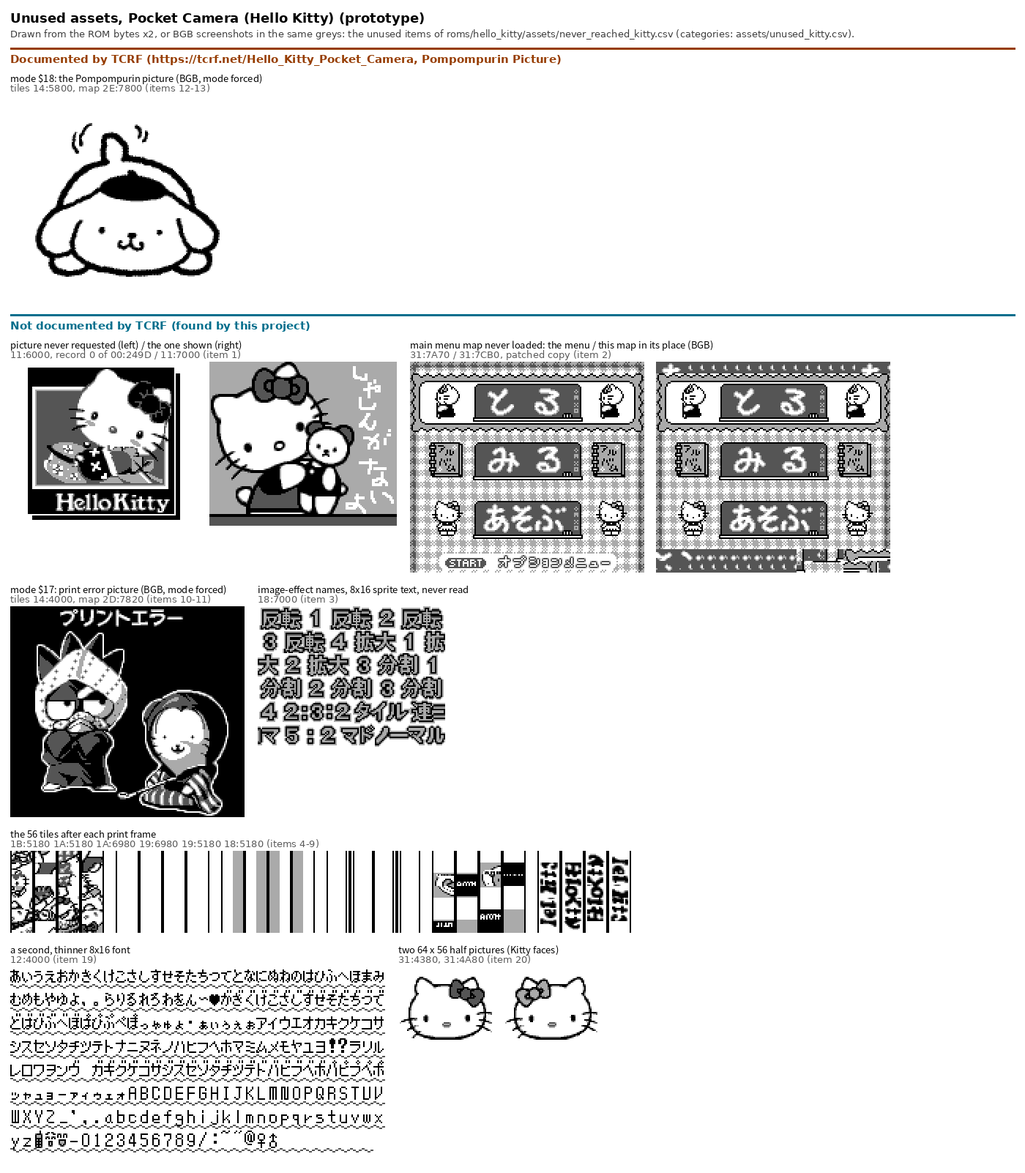
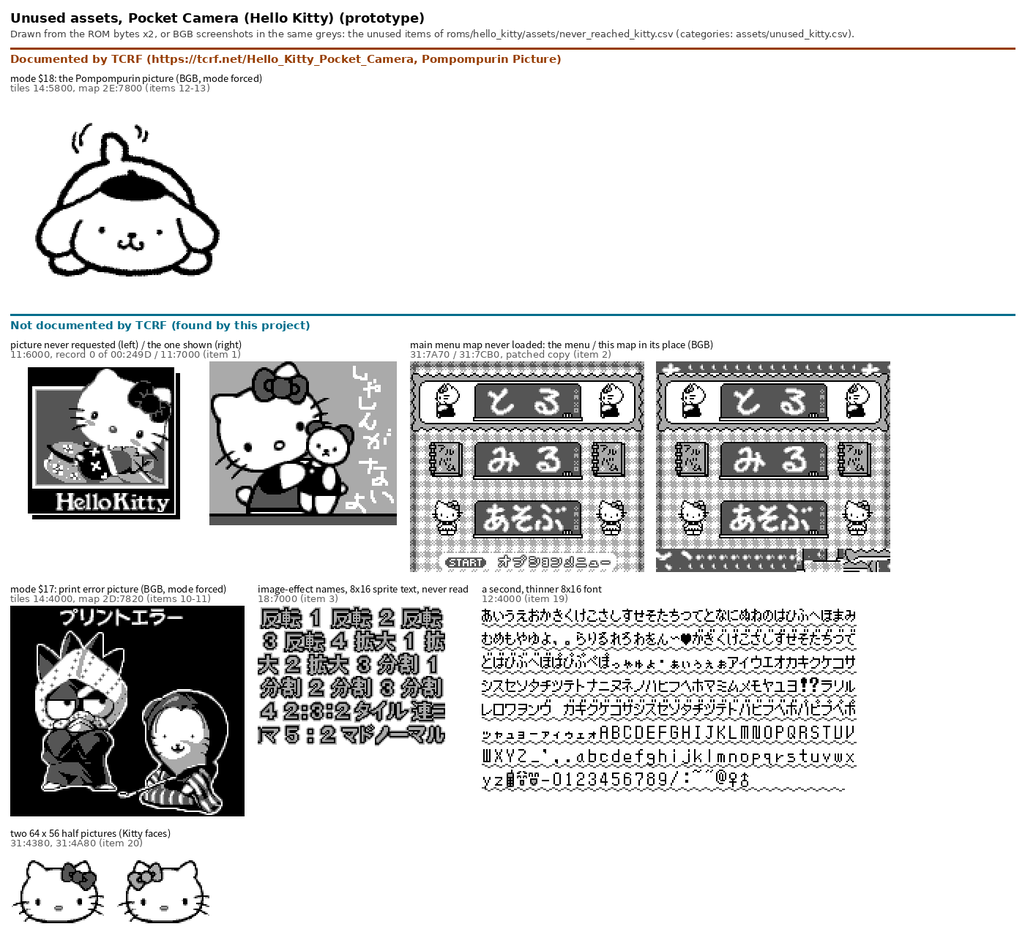
Hello Kitty: the last 56 tiles of each print-frame block are the side borders of the six wild frames (Up / Down on the print frame; BGB: the six blocks filled with $FF print black side borders on every wild frame), named Frame_BB_AAAA_WildFrameSides, no longer unused; the wild frame chooser and the 
Claude-Session: https://claude.ai/code/session_011bkRcGXfJ3fZfBVgH9Dsk3

diff --git a/tools/reach_map.py b/tools/reach_map.py
@@ -16,7 +16,8 @@ has no evidence for stays empty:
               run only read, never executed, is red too)
   YELLOW      asset data that no organic run read and that the ROM's never-reached table calls unused (assets/never_reached_<tag>.csv:
               ported builds, the rows found at the same address or moved; Hello Kitty, the verdicts `unused...`)
-  ORANGE      data never read but explained by a type row of disasm/sym_types_<tag>.csv or an inline table of the trace (class T)
+  ORANGE      data never read but explained by a type row of disasm/sym_types_<tag>.csv or an inline table of the trace (class T),
+              or (Hello Kitty) by a `used...` verdict of assets/never_reached_kitty.csv (read in BGB or on a Super Game Boy, not in the runs)
   GREY-BLUE   data never read and explained by nothing yet
   muted red / beige  never-read runs of 16+ x $00 (padding) / $FF (fill)
 Prints one line `<tag>_reach: blue N, red N, grey-blue N, orange N, padding N, fill N, light blue N, green N, purple N, yellow N bytes`
@@ -64,7 +65,7 @@ if os.path.exists(nr):
         b = int(r['bank'], 16); o1, o2 = off(b, int(r['start'], 16)), off(b, int(r['end'], 16)) + 1
         if r['class'] == 'JP_EQUIV': green[o1:o2] = True
         elif r['class'] in ('JP_DEAD', 'UNUSED', 'UNREACHABLE'): dead[o1:o2] = True
-unused = np.zeros(N, bool)
+unused = np.zeros(N, bool); used_x = np.zeros(N, bool)
 nrc = os.path.join(D, 'assets', 'never_reached_%s.csv' % T)
 if os.path.exists(nrc):
     for r in csv.DictReader(open(nrc, encoding='utf-8')):
@@ -73,12 +74,14 @@ if os.path.exists(nrc):
                 b, ad = r['%s_addr' % T].split(':'); o = off(int(b, 16), int(ad, 16)); unused[o:o + int(r['bytes'])] = True
         elif r.get('verdict', '').startswith('unused'):
             b = int(r['bank'], 16); unused[off(b, int(r['start'], 16)):off(b, int(r['end'], 16))] = True
+        elif r.get('verdict', '').startswith('used'):    # Hello Kitty: never read in the runs, shown used elsewhere (BGB, SGB): explained
+            b = int(r['bank'], 16); used_x[off(b, int(r['start'], 16)):off(b, int(r['end'], 16))] = True
 pad, fill = RD.runs16(rom)
 cat = np.zeros(N, np.uint8)                                  # 0 blue
 nh = ~hit
-cat[nh & ~code & typed] = 4                                   # orange
-cat[nh & ~code & ~typed] = 9                                  # grey-blue
-cat[nh & ~code & ~typed & pad] = 3; cat[nh & ~code & ~typed & fill] = 8
+cat[nh & ~code & (typed | used_x)] = 4                        # orange
+cat[nh & ~code & ~typed & ~used_x] = 9                                  # grey-blue
+cat[nh & ~code & ~typed & ~used_x & pad] = 3; cat[nh & ~code & ~typed & ~used_x & fill] = 8
 cat[nh & unused] = 7                                          # yellow
 nx = ~ex & code                                               # proven code counts as reached only when executed (a read of code bytes is not a run)
 cat[nx] = 2                                                   # red

diff --git a/tools/kitty_unused_sheet.py b/tools/kitty_unused_sheet.py
@@ -8,7 +8,7 @@ that table are not drawn).
 Documented by TCRF (https://tcrf.net/Hello_Kitty_Pocket_Camera, Pompompurin Picture): mode $18, its tiles 14:5800 drawn by the map
 2E:7800, a BGB screenshot with the mode byte forced (screens/extra_18_01.png). Not documented by TCRF: item 1 (11:6000, beside the
 picture 11:7000 that is shown), item 2 (the map 31:7CB0: BGB screenshots of the main menu and of the patched copy where this map
-replaces 31:7A70, screens/bgb_mainmenu_*.png), item 3 (18:7000, 8x16 sprite text), items 4-9 (the 56 tiles after each print frame),
+replaces 31:7A70, screens/bgb_mainmenu_*.png), item 3 (18:7000, 8x16 sprite text),
 items 10-11 (mode $17, BGB with the mode byte forced, screens/extra_17_01.png), item 19 (12:4000, the thin 8x16 font), item 20
 (31:4380, 31:4A80: two 64 x 56 half pictures). Drawn from the ROM bytes x2 unless the caption says BGB.
 """
@@ -21,12 +21,10 @@ ap = argparse.ArgumentParser(); ap.add_argument('rom'); ap.add_argument('--check
 R = open(a.rom, 'rb').read()
 def g(b, ad, n): o = b * 0x4000 + ad - 0x4000; return R[o:o + n]
 tcrf = [('mode $18: the Pompompurin picture (BGB, mode forced)', 'tiles 14:5800, map 2E:7800 (items 12-13)', shot(os.path.join(SC, 'extra_18_01.png')))]
-frames = side(*[tiles(g(b, ad, 0x380), w=8) for b, ad in ((0x1B, 0x5180), (0x1A, 0x5180), (0x1A, 0x6980), (0x19, 0x6980), (0x19, 0x5180), (0x18, 0x5180))])
 own = [('picture never requested (left) / the one shown (right)', '11:6000, record 0 of 00:249D / 11:7000 (item 1)', side(tiles(g(0x11, 0x6000, 0xE00)), tiles(g(0x11, 0x7000, 0xE00)))),
        ('main menu map never loaded: the menu / this map in its place (BGB)', '31:7A70 / 31:7CB0, patched copy (item 2)', side(shot(os.path.join(SC, 'bgb_mainmenu_31_7A70.png')), shot(os.path.join(SC, 'bgb_mainmenu_31_7CB0_patched.png')))),
        ('mode $17: print error picture (BGB, mode forced)', 'tiles 14:4000, map 2D:7820 (items 10-11)', shot(os.path.join(SC, 'extra_17_01.png'))),
        ('image-effect names, 8x16 sprite text, never read', '18:7000 (item 3)', tiles16(g(0x18, 0x7000, 0xC00), w=16)),
-       ('the 56 tiles after each print frame', '1B:5180 1A:5180 1A:6980 19:6980 19:5180 18:5180 (items 4-9)', frames),
        ('a second, thinner 8x16 font', '12:4000 (item 19)', tiles16(g(0x12, 0x4000, 0x1FE0), w=32)),
        ('two 64 x 56 half pictures (Kitty faces)', '31:4380, 31:4A80 (item 20)', side(tiles(g(0x31, 0x4380, 0x380), w=8), tiles(g(0x31, 0x4A80, 0x380), w=8)))]
 sys.exit(A_.sheet('Unused assets, Pocket Camera (Hello Kitty) (prototype)',

diff --git a/roms/hello_kitty/README.md b/roms/hello_kitty/README.md
@@ -51,7 +51,7 @@ The Kitty engine is not the Japanese one, so this ROM has its own tracer, `tools
 * **Printing (C, BGB).** With the project's printer helper on the link (`tools/kitty_bgb_print.py`), START on the photo-taken screen prints: mode `$06` shows a little car and "please wait" (state `$1F`, A spin / B cancel), the car drives off (state `$21`), and A starts a game while the printer works (state `$24`: Hello Kitty jumps to catch falling fruits, the Kitts won and the record at the top right, a row of flowers at the top left). Kept busy by the helper (`PRN_POLLS=1000000`: every inquiry after the PRINT answers busy), the game runs on for 6,000 frames; the helper received one page. The apples caught are counted in `$D94F` (`PrintGame_DrawAppleCount`, state `$23`) and added to the Kitts when the game ends.
 * **Printing from the album: the print frames (C, BGB, 2026-11-08).** The third icon of the album binder (mode `$03` state `$02`) opens mode `$06` state `$03`: the photo in one of **six print frames**, chosen with Left / Right (flowers and apples, HELLO KITTY, a plain bevel, a "きょうのいちばん" (today's best) banner, an empty banner, Kitty heads); state `$0A` then offers START (the photo, then a second page with the album comment lines, the ID card fields and Kitty: states `$15` and `$1C`, `Print_SetFrameSide`, `Print_LoadFrameGfx`), A (the photo only) or B. The helper received each frame as printed ([`screens/print_frames.png`](screens/print_frames.png): the screen above, the printed photo page below; the photo is the core's stand-in sensor picture).
 * **Printer errors (C, BGB, 2026-11-08).** `PRN_ERR` of the printer helper (§16.16) replaces printer replies: no answer to INIT or `$FF` gives **print error #02** ("is the Pocket Printer connected?"), as does bit 4 (packet error) on one inquiry while printing; held for 200 inquiries while printing, bit 5 (paper jam) gives **#03** ("is the print sticker jammed?"), bit 6 gives **#04**, bit 7 (low battery) gives **#01** (mode `$14` state `$01`, [`screens/print_errors.png`](screens/print_errors.png)); bits 0 to 3 are ignored and the print completes.
-* **Print intensity and the album page (C, BGB, 2026-11-12, owner's hint).** On the print frame screen (mode `$06` state `$03`), START held shows the print intensity (state `$0F`, `Mode06_State0F`: うすい light at the top, こい dark at the bottom, a squirrel on the scale that Up / Down move); Up / Down instead fade to state `$02` and then `$04`, the album page print (a Kitty pattern, the HELLO KITTY title and comic panels; Up / Down scroll it, Left / Right return to the frame).
+* **Print intensity and the album page (C, BGB, 2026-11-12, owner's hint).** On the print frame screen (mode `$06` state `$03`), START held shows the print intensity (state `$0F`, `Mode06_State0F`: うすい light at the top, こい dark at the bottom, a squirrel on the scale that Up / Down move); Up / Down instead fade to state `$02` and then `$04`, the **wild frames** (taller frames printed around the photo: the Hello Kitty pattern, the house, the stickers, Kitty's Family, MEMO, HELLO KITTY; Up / Down change the frame, Left / Right return to the normal frames, A shows the photo in it, state `$06`, then prints it).
 * **Printing with no printer: four error pictures at random (C, BGB, 2026-11-12, owner's hint).** START or A in the print menu with nothing on the link gives print error #02, its message sliding from right to left under a picture that `Mode14_State00` draws at random: `Rng_Next & 3` picks one of the four 3-byte records of `06:4464` (`3E:5C00` Badtz-Maru alone, `3E:6A00` three characters, one reading a book, `3F:4000` two characters in hoods, `3D:6A00` three characters and a top hat), $800 bytes copied to `$9000` and $600 to `$8000`; twelve BGB runs with different timings showed all four (the screen tree shows them in the print error panel).
 * **Photo exchange (C, BGB, 2026-11-08).** Two linked BGB units (`tools/kitty_bgb_link.py`), the giving one with a photo it has just taken (title A, take A, shutter A, keep A, B): both open the exchange (mode `$07`), the giver presses A on "あげる" (give) first and the receiver Right A ("もらう", receive); the giver picks the photo on the photo train (mode `$08`, states `$00`-`$05`) and sends it (mode `$09` states `$01`-`$07`), the receiver waits ("ちょっとまってて", states `$08`, `$0A`, `$0E`, `$0F`, `$10`); both return to mode `$07`, and the receiver's SRAM changes in its first photo slot. When the giver has no photo, both show "no photo to give / receive" after a time-out. `Link_SumSlotBuffer` (unused in the Japanese ROM) runs here.
 * **Super Game Boy (C, BGB, 2026-11-08).** BGB as a Super Game Boy (`SystemMode=2`, `tcrf_check/tools/bgb_sgb_capture.sh`) shows a pink houndstooth border with the "Hello Kitty" logo and four coloured Kitty faces in the corners ([`screens/sgb_border.png`](screens/sgb_border.png), the title screen, 256 x 224); read watchpoints on the five transfer sources of bank `$08` (`08:40D0`, `4146`, `41F6`, `5206`, `6216`) all hit, so the never-read data of bank `$08` is the SGB data.
@@ -61,7 +61,7 @@ The Kitty engine is not the Japanese one, so this ROM has its own tracer, `tools
 * **Scratch card (C, BGB).** Played with keys: the board (mode `$10` state 2), the six spots scratched (state 4: cherries worth 20 Kitts, bears worth 40 Kitts), and the host's question when B is pressed in the middle (mode `$0E` state `$20`: quit or continue).
 * **Name card (C, BGB).** The owner ID card is reached with keys only: take three photos, open Name in the option menu, pick the three photos (mode `$0B` state 4), type a name (state 8), then the blood type (state `$0A`), the birthday (state `$0C`) and boy / girl (state `$0E`); END shows the finished card (mode `$0A` state 1: ID number, name, birthday; its three photos take turns) and its menu (state 2: change, print, cancel). No new code ran on this path: the core runs had already executed it.
 * **Strawberry Channel (C, BGB).** Left alone, a channel plays its animation in a loop (channel 1: Hello Kitty driving a little car; 2,400 frames watched, screenshots every 60 frames). Left / Right change the channel (the dots at the bottom; from the unlocking save: car, slide, seesaw, tree, swing, a picnic titled おそとで あそぼ, and channel 7, the **credits**: a spiral, then the staff list rolls ("Hello Kitty Pocket Camera Staff", supervisor, director, programmers, designers, sound, special thanks, producer, "Presented by Nintendo") and starts again, [`screens/strawberry_channel_credits.png`](screens/strawberry_channel_credits.png); then back to channel 1, [`screens/strawberry_channel_pages.png`](screens/strawberry_channel_pages.png)); Up / Down change only the byte `$D8DC` (a bar with arrows shows at the top left when a channel starts: probably the volume, I). No new code ran.
-* **What is still missing (C, the runs).** [`kitty_rom_reachability_map.png`](kitty_rom_reachability_map.png), drawn by `tools/reach_map.py --tag kitty` in the legend of the Japanese map (`tools/reach_draw.py`) from the run files, the trace classes, the type rows and the unused-asset table: 7,607 bytes of proven code never executed (red; most in banks `$06`, `$00`, `$0F`, `$07` and `$01`), 45,417 bytes of data never read and explained by nothing (grey-blue; most in banks `$12`, `$08`, `$03`, `$11`), 14,414 bytes never read but explained by a loader site or a table (orange), 22,432 bytes of the assets that `assets/never_reached_kitty.csv` calls unused (yellow), 846,211 bytes executed or read (blue), the rest never-read padding and fill. Light blue, 21,402 bytes: executed or read only in forced runs (`trace/forced_*.npz`: the mode table patched by `tools/kitty_core_paths.py`, one sensor gate inverted, every picture effect; never a way the game runs). The blocks that the BGB watchpoint runs executed (`trace/wp_exec_kitty.npz`) count as runs. The organic paths of the same tool (album print with the six frames, printer errors, the erase-all question, the Strawberry Channel with and without Kitts; `trace/cov_kitty_paths.npz`) count as runs.
+* **What is still missing (C, the runs).** [`kitty_rom_reachability_map.png`](kitty_rom_reachability_map.png), drawn by `tools/reach_map.py --tag kitty` in the legend of the Japanese map (`tools/reach_draw.py`) from the run files, the trace classes, the type rows and the unused-asset table: 7,607 bytes of proven code never executed (red; most in banks `$06`, `$00`, `$0F`, `$07` and `$01`), 34,967 bytes of data never read and explained by nothing (grey-blue; most in banks `$03`, `$16`, `$11`, `$0D`), 35,884 bytes never read but explained by a loader site or a table (orange; it includes the `used` rows of `assets/never_reached_kitty.csv`, shown used in BGB or on a Super Game Boy), 17,056 bytes of the assets that `assets/never_reached_kitty.csv` calls unused (yellow), 846,211 bytes executed or read (blue), the rest never-read padding and fill. Light blue, 21,402 bytes: executed or read only in forced runs (`trace/forced_*.npz`: the mode table patched by `tools/kitty_core_paths.py`, one sensor gate inverted, every picture effect; never a way the game runs). The blocks that the BGB watchpoint runs executed (`trace/wp_exec_kitty.npz`) count as runs. The organic paths of the same tool (album print with the six frames, printer errors, the erase-all question, the Strawberry Channel with and without Kitts; `trace/cov_kitty_paths.npz`) count as runs.
 * **Screens the core runs reach (C, the core).** [`trace/modes_seen_kitty.csv`](trace/modes_seen_kitty.csv), written by `tools/kitty_modes_seen.py` from the four corpora: 159 (mode, state) pairs, each with the shortest key history found (one key byte per frame from a cold boot, core mask) that ends on it; 158 of them end on their pair when replayed from a cold boot in the core, 1 (`0E:1E`) shows only in a replay from snapshots. The histories are core timing: in BGB a long one can end elsewhere (convert the mask and check the end).
 
   ![What the runs reached in the Hello Kitty ROM](kitty_rom_reachability_map.png)
@@ -70,7 +70,7 @@ The Kitty engine is not the Japanese one, so this ROM has its own tracer, `tools
 
 * **Data names (L3, 2026-11-12).** The 822 placeholder labels of L1 (`Data_BB_AAAA` 720, `Gfx_` 41, `Map_` 45, `JumpTable_` 16) are gone. `tools/kitty_data_names.py` (layer 5 of `tools/kitty_names.py`) works in the Japanese convention: 241 of them sat on the inline arguments of a call (`Copy_FarInline`, `Lcd_SetupInline` ...) and are dropped, the bytes belong to the call as in the Japanese listing; inside the others, every stretch of 32 bytes or more (padding runs aside) that no run reads or executes, no code names and no loader table explains is cut out as `Leftover_BB_AAAA` (110, tag I, final, `disasm/sym_settled_unused_kitty.csv`), and 10 more such stretches are entries of a table of their bank that no run reached (`Snd_0F_57AE_EntryOf572F`, the songs of the song table never played; `KeyPrompt_LoadSounds_Tbl5F7F_Entry5E8E` ...; tag I, doubts list); a block whose bytes hold two kinds is cut where the kind changes (38 cuts). Each block is then named by its kind, from the evidence of `tools/kitty_layout_kinds.py` (display tracker, loader tables, constant copies, readers) or its reader, and by its consumer: `Gfx_BB_AAAA_<context>`, `Map_`, `Frame_` (print and camera frames), `Snd_`, `OamList_` (sprite layouts), `ObjScript_` (object engine records), `Script_` (script slots), `Pal_..._Palettes`, `Src_` (copied, the destination never seen: kind not settled), `<Routine>_TblAAAA` and `<Routine>_JumpTblAAAA` for the tables of one routine, and the Japanese name (its address part made the Kitty one) for 18 blocks that are unique exact copies of named Japanese blocks (the sound-effect data `Sfx1_*`, `Snd_FreqTbl`, `Rng_InitOrder`, the Super Game Boy packets `Sgb_MltReqPackets` ...). The context is the routine whose code names the address, else the screen the bytes are first read on (`ModeMM_<Mode>_StateSS`, after the fade of mode `$1E`: [`trace/read_screens_kitty.npz`](trace/read_screens_kitty.npz), two 40-minute core runs of `tools/kitty_read_screens.py`; 575 names), else the routine that reads them. Tags: C when an organic run reads the bytes (608), I when only forced runs do or nothing reads them (15).
 * **Data kinds and code colours of the layout map (C / I, 2026-11-09, refreshed 2026-11-12).** The data names carry their kind, so the layout map takes it from the name; `tools/kitty_layout_kinds.py` (its evidence: the six print frames and the 108 camera-frame pictures named by their loader tables, the Super Game Boy transfers of bank `$08`, bytes seen in VRAM tile memory or a BG map while the four core corpora were replayed, constant copies, first reads by the sound driver and the object engine) now gives a kind only to the bytes of labels whose name has none (`Src_`, `Leftover_`): 30,690 bytes of kind-less blocks given a kind, 19,533 left uncertain (rule 6, the owner by eye, 2026-11-12: `assets/layout_kind_owner_kitty.csv` gives tile sets to the top halves of banks `$0D` and `$16` and to the rest of banks `$0C`, `$10`, `$12`, `$18`, `$1C`, `$27`, `$2F`, and tile maps, the kind of the data around them, to the bottom halves of banks `$13`, `$14`, `$16`, `$1B`, `$31`; I, for the layout map only: the names keep the evidence of the code and the runs). On the layout map 51,557 bytes stay UNCERTAIN (204,703 before the data names): the `Src_` blocks copied into WRAM buffers and never seen in VRAM, and the leftovers. The code colours are the function groups of the Japanese map, from this ROM's modes and name prefixes ([`assets/layout_groups_kitty.csv`](assets/layout_groups_kitty.csv)); the code under an automatic data label (the bytes after the inline parameters of `Copy_FarInline` and the like) takes the colour of the routine before it, so every traced byte has a group.
-* **Names.** 2,218 names (C 2,068 / I 150 / ? 0), merged from six layers by `tools/kitty_names.py`: the block labels of L1 (only `ModeTable` keeps its L1 name), 743 data names and leftovers (above), 304 mode and state names (`ModeMM_<Name>` from the BGB screens, `ModeMM_StateTable`, `ModeMM_StateSS`; the names of `disasm/mode_names_kitty.csv`, tagged I for the 10 modes seen only forced), 134 names ported from the Japanese ROM, 1,036 hand names (bank `$00`, banks `$01`, `$02`, `$04` to `$08` and `$0F`, the unused mode `$18`, the 57 Japanese names whose routine was compared over its whole length or seen running, `disasm/layers/sym_names_kitty_hand.csv`).
+* **Names.** 2,224 names (C 2,074 / I 150 / ? 0), merged from six layers by `tools/kitty_names.py`: the block labels of L1 (only `ModeTable` keeps its L1 name), 743 data names and leftovers (above), 304 mode and state names (`ModeMM_<Name>` from the BGB screens, `ModeMM_StateTable`, `ModeMM_StateSS`; the names of `disasm/mode_names_kitty.csv`, tagged I for the 10 modes seen only forced), 134 names ported from the Japanese ROM, 1,036 hand names (bank `$00`, banks `$01`, `$02`, `$04` to `$08` and `$0F`, the unused mode `$18`, the 57 Japanese names whose routine was compared over its whole length or seen running, `disasm/layers/sym_names_kitty_hand.csv`).
 * **Same code as the Japanese ROM (C).** `tools/kitty_match_jp.py` searches every Japanese routine of 12+ bytes in the Kitty code with the build-dependent operands as wildcards (16-bit addresses, the HRAM byte of `ldh`): 230 of 1,891 are found, 204 at exactly one place. They are the **printer protocol** (`Prn_*`, bank 0), the **link cable** (`Link_*`, bank 0), the **sensor bank** (the Japanese bank `$0A` in Kitty bank `$04`: calibration copy and check, exposure bands, threshold convergence, dither ramps, the image effects `Fx*`), the **SRAM magic comparison** (`Sram_CompareMagic`, one Kitty routine for the three Japanese copies, tag ?), and **107 sound-effect routines** of the Japanese sound bank `$1F` in Kitty bank `$0F`. A port is tagged C from 16 bytes, I below.
 * **Edited copies (C).** `tools/kitty_similar_jp.py` compares the instruction sequences of the routines not found exactly: 52 near matches (ratio >= 0.85), among them the **factory calibration** (`Cam_FactoryMeasure1` / `Cam_FactoryMeasure2`, ratio 0.998 / 0.997), the **quick factory check** (`Cam_CalibSanityCheck_Measure`, 0.993), `Cam_CommitVectorToSRAM`, `Sram_ComputeImageChecksums`, `Sgb_SendPacket`, `Img_ReduceToThumbnail` and the flipped image effects. Each named copy was then compared with its Japanese routine over its whole length (to the first `ret` / `jp`): the same instructions with other addresses, or small edits (variables moved between HRAM and WRAM, bank shadow `hFF8C` stores, a `ret` in place of a jump); the boot measurement `Cam_Calib_BootMeasureSeq` first looks for 12 bytes of `$AA` at `$AFF2` of SRAM banks 2 and 8 and skips the measurement when both are there.
 * **Owner's hypotheses so far.** Sensor, printer, link and SRAM code: the same routines as the Japanese ROM (C for the exact matches). Sound: the effect routines are shared; the music data is still to compare. Menus: no routine of the other Japanese banks matches (only banks `$00`, `$02`, `$07`, `$0A` and `$1F` have matches; the 31 Kitty modes have their own code).
@@ -91,16 +91,15 @@ The Kitty engine is not the Japanese one, so this ROM has its own tracer, `tools
 
 Drawn by `tools/make_screen_trees.py` (`tools/screen_tree.py`, left to right) from `screens/` (collected by `tools/screen_collect.py` from the explorations of `tools/kitty_bgb_explore.py`: a breadth-first search over single key taps in the core, each (mode, state) then replayed once in BGB, which must end on the same (mode, state); the start save is the owner's unlocking save, `tools/make_unlocked_saves.py --hello-kitty`). Panels: one per mode, the boot row from `disasm/screen_panels_kitty.csv` (title, quick factory check, factory calibration, each with its power-on condition). Arrows: reached by the keys written on them (C); two-headed when B leads back, from `screens/cancel.csv` (`tools/screen_cancel.py`: each key path replayed in BGB, then the same path plus B; 33 of 33 screens replayed on their screen). Grey notes: the keys inside a panel and B leading elsewhere. Orange box: forced only (I). Names: `disasm/screen_names_kitty.csv` (C = what the BGB screen shows, I = a forced screen). The checker redraws the tree from these files and compares the pixels; new screens need a new exploration in BGB.
 
-**Unused assets (2026-11-08; C for the loaders and the BGB captures, I for every "unused" verdict).** The never-read data of the reachability map (66,527 bytes not read in a run and explained by nothing) were sorted block by block: the readers of the read part of each block (`trace/cov_kitty_runs.npz`, `reader`), the copy sites, every far pointer `{lo, hi, bank}` and `{bank, lo, hi}` in the ROM, exact tile matches over the whole ROM, the core replays of the print frames and of the Strawberry Channel without Kitts (89 bytes more), and BGB captures of patched copies. 30 blocks (881 bytes) were never touched at all; the rest are the unread parts of blocks that the runs did read. [`assets/never_reached_kitty.csv`](assets/never_reached_kitty.csv) lists 20 items: 11 unused, 4 unused because only an unreachable mode loads them, 4 used but not read in the runs, 1 open; [`assets/never_reached_kitty.png`](assets/never_reached_kitty.png) draws the unused ones:
+**Unused assets (2026-11-08; C for the loaders and the BGB captures, I for every "unused" verdict).** The never-read data of the reachability map (66,527 bytes not read in a run and explained by nothing) were sorted block by block: the readers of the read part of each block (`trace/cov_kitty_runs.npz`, `reader`), the copy sites, every far pointer `{lo, hi, bank}` and `{bank, lo, hi}` in the ROM, exact tile matches over the whole ROM, the core replays of the print frames and of the Strawberry Channel without Kitts (89 bytes more), and BGB captures of patched copies. 30 blocks (881 bytes) were never touched at all; the rest are the unread parts of blocks that the runs did read. [`assets/never_reached_kitty.csv`](assets/never_reached_kitty.csv) lists 20 items: 5 unused, 4 unused because only an unreachable mode loads them, 10 used but not read in the runs, 1 open; [`assets/never_reached_kitty.png`](assets/never_reached_kitty.png) draws the unused ones:
   1. **A Hello Kitty picture, `11:6000`** (128 x 112, 224 tiles): record 0 of the table `00:249D`, whose record 1 (`11:7000`) is the "しゃしんがないよ" picture of an empty photo slot; all 9 calls of the two loaders pass 1, so record 0 is never loaded.
   2. **A second main menu map, `31:7CB0`**, the next map of the chain after the main menu map `31:7A70`. Put in its place in a patched copy, BGB draws the main menu with another border and background; the block of ids `$42`-`$63` at the lower right does not fit the menu tiles, and no tile set for it is found in the ROM (seam search).
   3. **The names of the image effects, `18:7000`**, as 8x16 sprite text: 反転1-4, 拡大1-3, 分割1-4, 2:3:2タイル, 連コマ5:2, マド, ノーマル (the effects of the effect table `04:5E8A`); nothing reads them.
-  4. **The tails of the six print frames** (`1B:5180`, `1A:5180`, `1A:6980`, `19:6980`, `19:5180`, `18:5180`, 56 tiles each): `PrintFrame_LoadTiles` copies `$1180` bytes of each `$1500`-byte frame block and the last `$380` are never copied; they are vertical strips two tiles wide (one with the rotated text "Hello Kitty"). Checked in BGB (owner's question, 2026-11-12: borders of a frame variant?): a copy of the ROM with the six tails filled with `$FF` printed every frame exactly as the original, photo alone (A) and photo with the album page (START), with the printer helper on the link, and the frame screen, the intensity screen and the album page view left the same VRAM; so no print reads them. 56 tiles is 14 rows x 2 columns x 2 sides, the size of a left and a right border along a 14-row photo: border strips of frame versions this build does not use.
-  5. **A second, thinner 8x16 font, `12:4000-5FDF`**: kana, Latin and digits like the bold font the game draws (`12:6000`); four of its tiles are read in the runs, the rest never, and no loader names it.
-  6. **Two Kitty-face half pictures, `31:4380` and `31:4A80`** (64 x 56 each): records `$49` / `$4B` of the picture-part table `07:41CE`, between records `$48` / `$4A` (`31:4000`, `31:4700`) that the camera frame animation draws; no key list read with that table names them (the bytes `$49` / `$4B` are keys only of a Strawberry Channel list, which uses other part tables).
-  7. **The pictures of modes `$17` and `$18`** (tiles `14:4000` + map `2D:7820`, tiles `14:5800` + map `2E:7800`), loaded only by those modes (below).
+  4. **A second, thinner 8x16 font, `12:4000-5FDF`**: kana, Latin and digits like the bold font the game draws (`12:6000`); four of its tiles are read in the runs, the rest never, and no loader names it.
+  5. **Two Kitty-face half pictures, `31:4380` and `31:4A80`** (64 x 56 each): records `$49` / `$4B` of the picture-part table `07:41CE`, between records `$48` / `$4A` (`31:4000`, `31:4700`) that the camera frame animation draws; no key list read with that table names them (the bytes `$49` / `$4B` are keys only of a Strawberry Channel list, which uses other part tables).
+  6. **The pictures of modes `$17` and `$18`** (tiles `14:4000` + map `2D:7820`, tiles `14:5800` + map `2E:7800`), loaded only by those modes (below).
   **Sprite layouts (bank `$03`).** `tools/kitty_sprite_layouts.py` cuts the bank into the layouts that `Obj_DrawSprite` reads (4-byte entries up to the one whose attribute bit 0 is set): 154 layouts (8,364 bytes) are never read in the runs ([`assets/sprite_layouts_unread_kitty.csv`](assets/sprite_layouts_unread_kitty.csv)); 94 are named only by object scripts of bank `$02` that no run started (the scripts `02:4728-484B`, `02:43xx`, `02:45xx`, `02:76xx`), 41 by words that a run read (animation frames the runs did not reach), 4 only from code, 15 by nothing. `tools/kitty_draw_layouts.py` draws each one as `Obj_DrawSprite` would, with the tiles that BGB holds in VRAM on a screen chosen from the read layouts next to it in the bank (`trace/layout_screens_kitty.csv`, `trace/vram_screens_kitty.npz`; the choice is a guess, I): [`assets/sprite_layouts_unread_kitty.png`](assets/sprite_layouts_unread_kitty.png), screens in [`assets/sprite_layouts_drawn_kitty.csv`](assets/sprite_layouts_drawn_kitty.csv). What reads as a picture with those tiles: three Kitt host speech bubbles (`03:41AC` and `03:466C` "イラスト しゃしん カメラ", `03:44B4` "カメラ"), the frames of the "Aきろく" / "Bやめる" key prompts of the photo-taken screen (`03:7188-73F8`), the corner marks of camera frames (`03:5208`, `03:522C`, `03:6EB8-6ED8`); the others draw as noise, so their tile set is on a screen whose VRAM was not dumped (most are next to the layouts of the exchange screens).
-  Not unused: the never-read bytes of bank `$08` are the Super Game Boy transfers (`Sgb_VramTransferInline`, `$1000` bytes from five sources), the message texts of `1C:5A40` and the album page text of `27:7015` are shown in BGB in screens the core runs did not reach. Open: the unplayed songs of bank `$0F` go with the sound roles (L4); object scripts and sprite layouts of banks `$02` / `$03` that the runs did not reach are not sorted.
+  Not unused: **the last 56 tiles of each print-frame block** (`1B:5180`, `1A:5180`, `1A:6980`, `19:6980`, `19:5180`, `18:5180`) are the left and right borders of the six **wild frames** (owner, 2026-11-12): Up / Down on the print frame screen (mode `$06` state `$03`) choose a wild frame (state `$04`: the Hello Kitty pattern, the house, the stickers, Kitty's Family, MEMO, HELLO KITTY), A shows the photo in it (state `$06`) and printing it reads these tiles beside the photo; in BGB a copy of the ROM with the six tails filled with `$FF` prints each wild frame with black side borders and every other page unchanged, while the six normal frames print the same as the original (`PrintFrame_LoadTiles` copies only `$1180` bytes of each block). The core runs never printed a wild frame. 56 tiles = 14 rows x 2 columns x 2 sides, the height of the photo. Also not unused: the never-read bytes of bank `$08` are the Super Game Boy transfers (`Sgb_VramTransferInline`, `$1000` bytes from five sources), the message texts of `1C:5A40` and the album page text of `27:7015` are shown in BGB in screens the core runs did not reach. Open: the unplayed songs of bank `$0F` go with the sound roles (L4); object scripts and sprite layouts of banks `$02` / `$03` that the runs did not reach are not sorted.
 
 **The modes seen only by forcing (C for the code facts and the forced BGB runs, I for their purpose; 2026-11-08).** Ten modes run only when the mode table is patched (`tools/kitty_bgb_forced_modes.py`): `$13`, `$15`-`$1D`. Of the 211 mode changes of the code, the only ones with a constant that names one of them are in that mode's own state `$00` (a fade to its own state `$01`); the 11 computed ones come from menu items, saved return screens and the print flow, and the Play menu table `02:5AB7` has exactly 4 items in a closed Up / Down loop (scratch card, 15 puzzle, slide show, Strawberry Channel). No core or BGB run reached them. What they do when forced:
   * `$13`, `$1D`: back to the main menu at once.

diff --git a/roms/hello_kitty/disasm/sym_unconclusive_kitty.md b/roms/hello_kitty/disasm/sym_unconclusive_kitty.md
@@ -1,6 +1,6 @@
 # Doubtful names of the Hello Kitty symbol file
 
-Generated by `tools/kitty_doubts.py` from `sym_names_kitty.csv` and the hand table `doubts_groups_kitty.csv` (companion: `sym_unconclusive_kitty.csv`). Every name not tagged C is here, except the leftovers (`Leftover_BB_AAAA`, tag I, final, owner rule 2026-11-11: `sym_settled_unused_kitty.csv`): 41 of 2218 names (C 2068 / I 150 / ? 0). 26 are open (15 in modes reached only by forcing the mode byte, 11 in states the runs did not reach); 15 are settled as unused (final: nothing can reach them, so no run can confirm them).
+Generated by `tools/kitty_doubts.py` from `sym_names_kitty.csv` and the hand table `doubts_groups_kitty.csv` (companion: `sym_unconclusive_kitty.csv`). Every name not tagged C is here, except the leftovers (`Leftover_BB_AAAA`, tag I, final, owner rule 2026-11-11: `sym_settled_unused_kitty.csv`): 41 of 2224 names (C 2074 / I 150 / ? 0). 26 are open (15 in modes reached only by forcing the mode byte, 11 in states the runs did not reach); 15 are settled as unused (final: nothing can reach them, so no run can confirm them).
 
 The code of every row is read: what each routine does is in the evidence column; the doubt is whether and where the game runs it.
 

diff --git a/README.md b/README.md
@@ -153,7 +153,7 @@ Ported from the Japanese symbol file with the international tools: L0-L5 done (a
 
 ### Pocket Camera (Hello Kitty) (prototype)
 
-L0-L3 done (2026-11-12: every routine entry and every data block named, 2,218 names of which 150 are not C: 109 leftovers `Leftover_BB_AAAA` by the owner rule, 41 in the doubts list; the data blocks by kind and consumer, as the Japanese ones), L4-L6 not started ([`roms/hello_kitty/`](roms/hello_kitty/README.md); the reachability map is there).
+L0-L3 done (2026-11-12: every routine entry and every data block named, 2,224 names of which 150 are not C: 109 leftovers `Leftover_BB_AAAA` by the owner rule, 41 in the doubts list; the data blocks by kind and consumer, as the Japanese ones), L4-L6 not started ([`roms/hello_kitty/`](roms/hello_kitty/README.md); the reachability map is there).
 
 **ROM layout**
 
